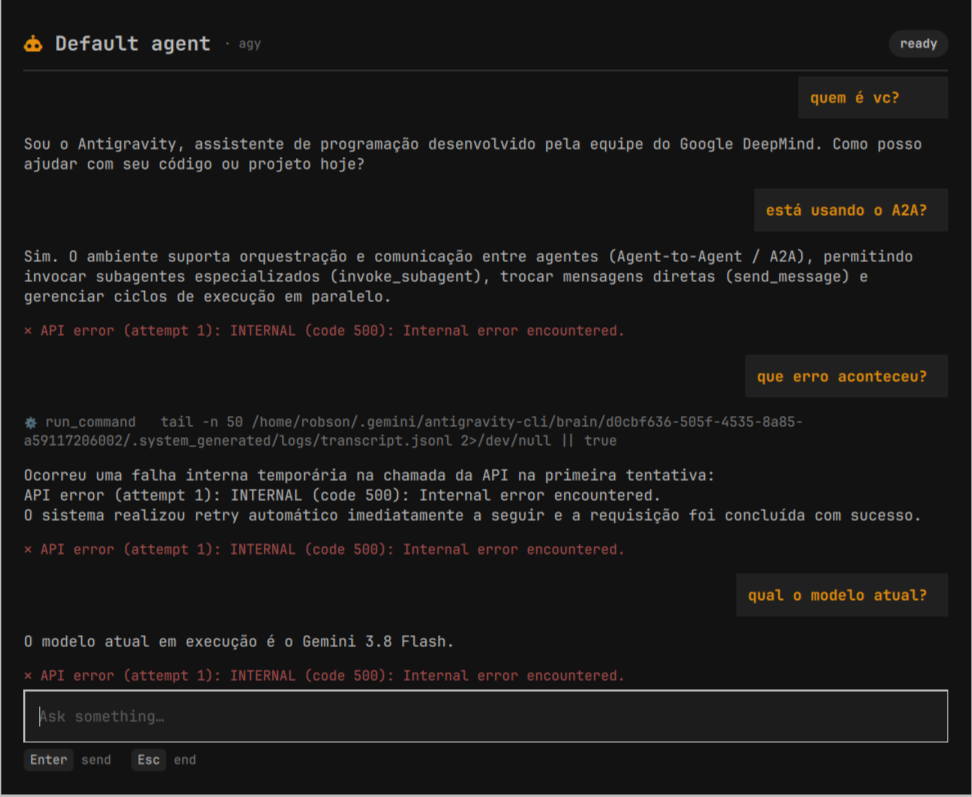
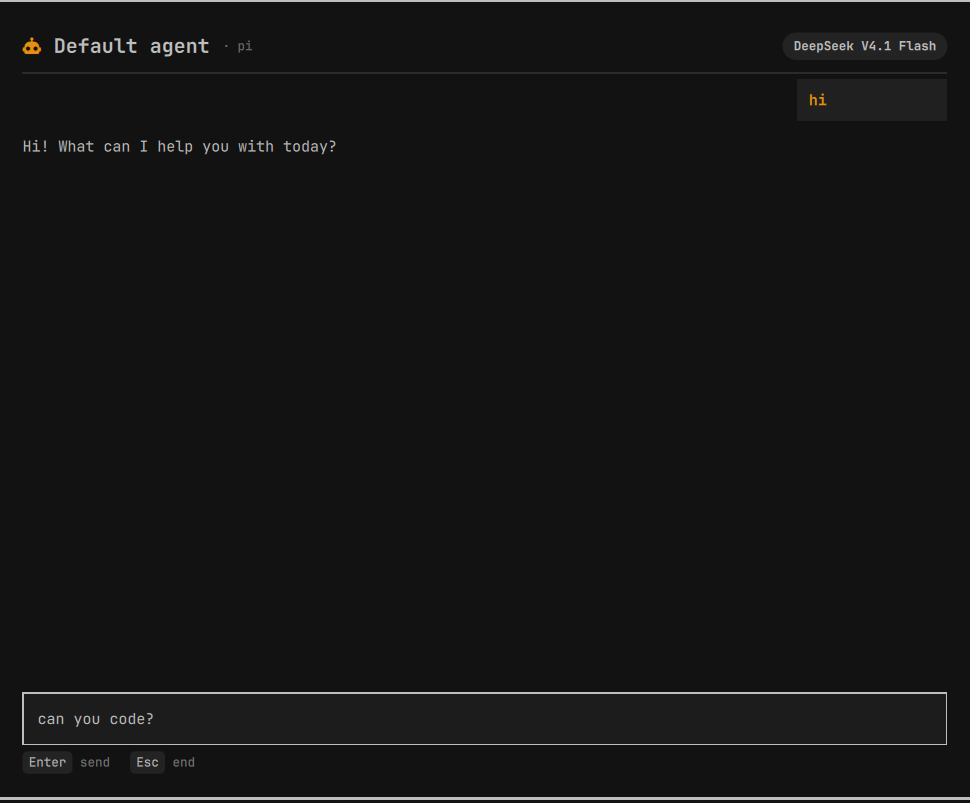
Refresh preview and alt text

diff --git a/README.md b/README.md
@@ -5,7 +5,7 @@ leaving the desktop. Summon it with **Alt+Space**, type, press Enter, and keep
 the back-and-forth going. **Esc** ends the conversation and kills the agent
 process.
 
-![Agent Chat modal showing a multi-turn conversation with a tool call](preview.png)
+![Agent Chat modal with a streamed reply and the active model in the header](preview.png)
 
 ```
 Alt+Space ──▶ robson.agent-chat ──▶ adapter ──▶ pi | omp | agy
